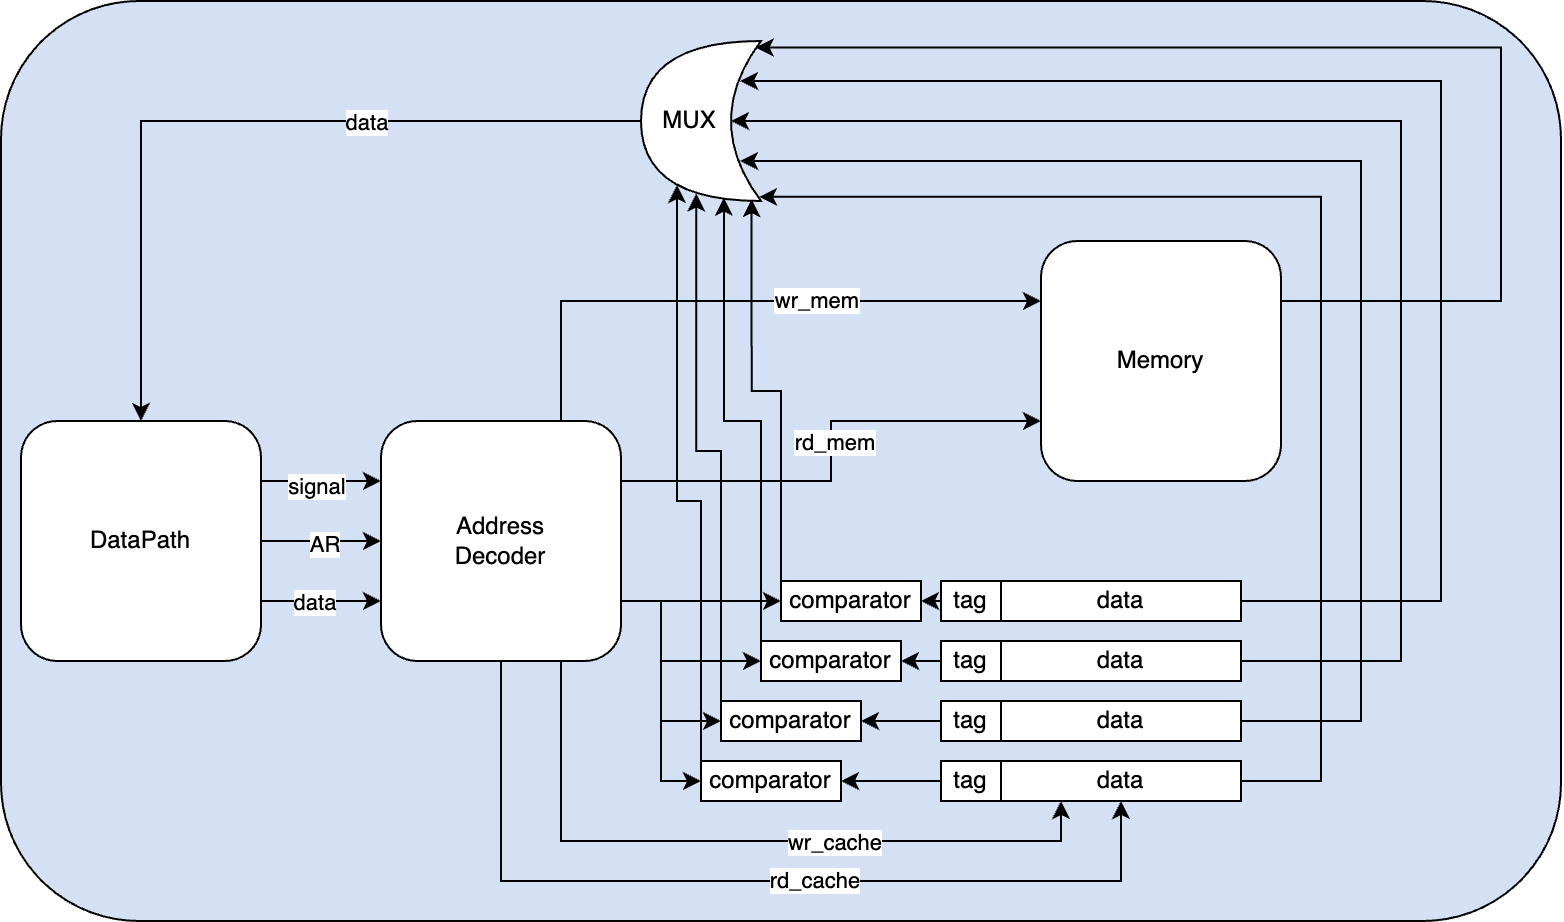
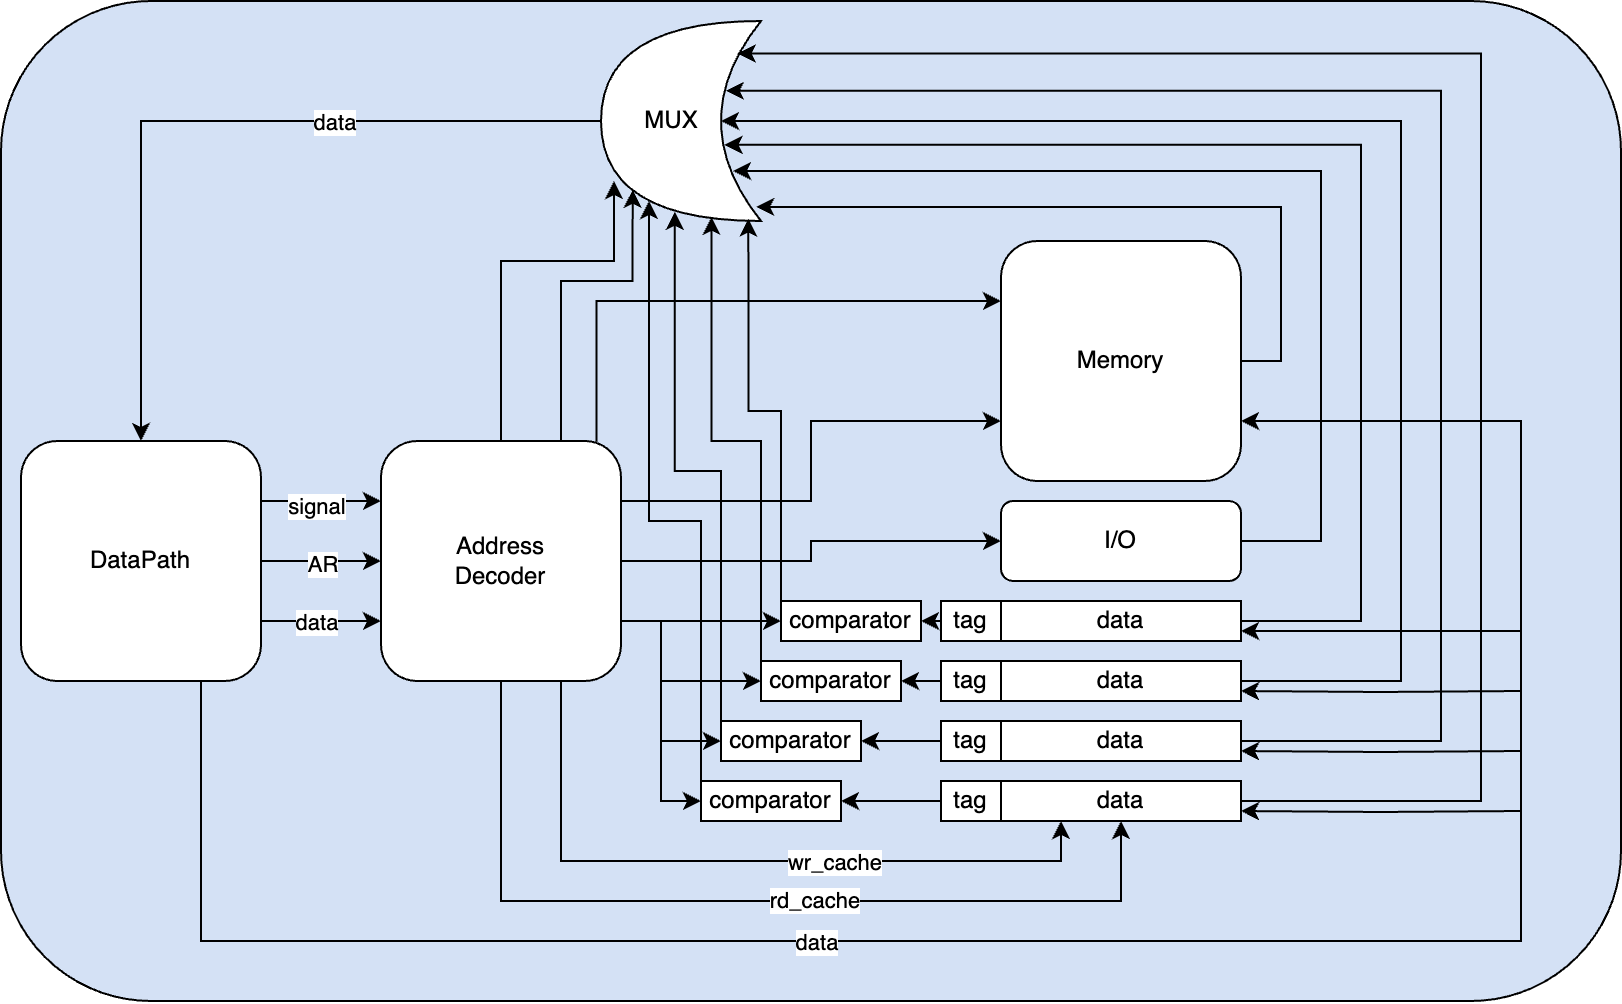
Update: AddressDecoder scheme Add: All golden tests Update: README.md

diff --git a/Translator.py b/Translator.py
@@ -89,8 +89,8 @@ def replace_marks_and_chars(lines: list[str]):
     lines = "\n".join(lines)
     lines = lines.replace(":\n", ":")
     for line in lines.split("\n"):
-        if len(re.findall(r"\".\"", line)) == 1:  # Замена литералов
-            val = re.findall(r"\".\"", line)[0]
+        if len(re.findall(r"\'.\'", line)) == 1:  # Замена литералов
+            val = re.findall(r"\'.\'", line)[0]
             lines = lines.replace(val, str(ord(val[1: len(val) - 1])), 1)
         if len(re.findall(r"\s?org\s", line)) == 1:  # Поиск и подстановка переходов по памяти
             address = int(re.findall(r"\d+", line)[0])

diff --git a/Machine.py b/Machine.py
@@ -67,6 +67,7 @@ class AddressDecoder:
         self.mem = mem
         self.cache = {}
         self.input_buffer = input_buffer
+        self.output_buffer = []
 
     def get(self, address: int, tick_log_callback):
         if address < 0:
@@ -451,7 +452,7 @@ class ControlUnit:
                f"DR: {self.comp.DR}; SP: {self.comp.SP}; CR: {self.comp.CR}; IP: {self.comp.IP}; "
                f"AR: {self.comp.AR}; N: {self.comp.alu.N}; Z: {self.comp.alu.Z}")
         logging.debug(log)
-        self.f.write(log + "\n")
+        # self.f.write(log + "\n")
         self.ticks_counter += 1
 
 

diff --git a/README.md b/README.md
@@ -48,6 +48,8 @@ asm | acc | neum | mc -> hw | tick -> instr | struct | stream | mem | pstr | pro
             | "[" + ("+" | "-") label + "]"
             | character
             
+<comment> ::= ";" + <any of "a-zA-Z0-9">
+            
 <integer> ::= { <any of "0-9"> }
 
 <character> ::= "'" + "a-zA-Z0-9" + "'"
@@ -256,7 +258,7 @@ E    -> to stderr
 + Политика вытеснения: случайная
 + Политика записи: write-through
 ![AddressDecoder.png](AddressDecoder.png)
-
++ 
 Показатели работы кэша на алгоритме `prob1`, сумма делителей от 1 до 99(доступ к памяти – 10 тактов, к кэшу – 1):
 
 | Кол-во линий | Кол-во тактов |
